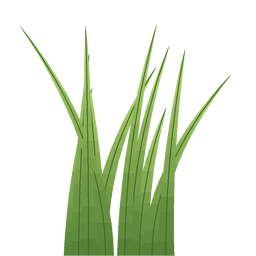
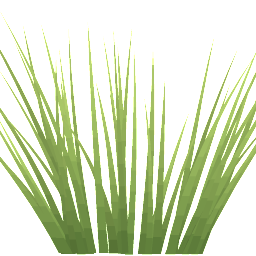
Art direction step 3: dense painted grass, ground tinted to the meadow, more samples per tier; build 97
Claude-Session: https://claude.ai/code/session_01Lp4BdAEwUFHKjaufRuJ5M3

diff --git a/tools/make_grass_textures.py b/tools/make_grass_textures.py
@@ -1,0 +1,142 @@
+#!/usr/bin/env python3
+"""Generates the painted grass card textures (ART_DIRECTION.md step 3).
+
+Usage: python3 tools/make_grass_textures.py [--out assets/grass]
+
+ground_cover : blades splayed flat, seen from above (lies on the ground)
+grass_short  : an upright tuft of fine blades, about 0.4 m
+grass_tall   : taller blades with a few seed heads, about 0.75 m
+The card is multiplied by a per-card green from the game, so the textures stay close to neutral:
+dark at the root, lighter at the tip, each blade a little different. Drawn 4x larger and
+averaged down for clean edges. Deterministic.
+"""
+import argparse
+import math
+import os
+
+import numpy as np
+from PIL import Image, ImageDraw
+
+SS = 4
+
+
+def blade(draw, w, h, x0, y0, length, lean, width, color, curve):
+    """One tapered, curved blade from (x0, y0) upward; lean and curve in pixels."""
+    n = 14
+    left, right = [], []
+    for i in range(n + 1):
+        t = i / n
+        x = x0 + lean * t + curve * t * t
+        y = y0 - length * t
+        half = width * 0.5 * (1.0 - t) ** 0.8 + 0.4
+        left.append((x - half, y))
+        right.append((x + half, y))
+    draw.polygon(left + right[::-1], fill=color)
+
+
+def shaded_blade(img, w, h, x0, y0, length, lean, width, curve, base, tip, rng):
+    """Draws a blade as short colour bands so the root is darker than the tip."""
+    n = 10
+    draw = ImageDraw.Draw(img)
+    pts = []
+    for i in range(n + 1):
+        t = i / n
+        pts.append((x0 + lean * t + curve * t * t, y0 - length * t, t))
+    for i in range(n):
+        (xa, ya, ta), (xb, yb, tb) = pts[i], pts[i + 1]
+        ha = width * 0.5 * (1.0 - ta) ** 0.8 + 0.4
+        hb = width * 0.5 * (1.0 - tb) ** 0.8 + 0.4
+        tm = (ta + tb) * 0.5
+        col = tuple(int(base[c] + (tip[c] - base[c]) * (tm ** 0.8)) for c in range(3)) + (255,)
+        draw.polygon([(xa - ha, ya), (xa + ha, ya), (xb + hb, yb), (xb - hb, yb)], fill=col)
+
+
+def finish(img, size, path):
+    # Average down with premultiplied colour, so the clear pixels do not darken the edges.
+    a = np.asarray(img).astype(np.float32) / 255.0
+    pre = Image.fromarray((np.dstack([a[..., :3] * a[..., 3:4], a[..., 3:4]]) * 255.0 + 0.5).astype(np.uint8), "RGBA")
+    pre = np.asarray(pre.resize((size[0], size[1]), Image.BOX)).astype(np.float32) / 255.0
+    alpha = pre[..., 3:4]
+    rgb = np.where(alpha > 0.002, pre[..., :3] / np.maximum(alpha, 0.002), 0.0)
+    out = np.dstack([np.clip(rgb, 0, 1), alpha])
+    img = Image.fromarray((out * 255.0 + 0.5).astype(np.uint8), "RGBA")
+    img.save(path, optimize=True)
+    print(path, img.size)
+
+
+def tuft(size, count, min_len, max_len, rng, seeds=0, spread=0.55):
+    w, h = size[0] * SS, size[1] * SS
+    img = Image.new("RGBA", (w, h), (0, 0, 0, 0))
+    for _ in range(count):
+        x0 = w * (0.5 + (rng.random() - 0.5) * spread)
+        y0 = h * (0.985 + rng.random() * 0.01)
+        length = h * (min_len + (max_len - min_len) * rng.random())
+        lean = (x0 - w * 0.5) * (0.6 + rng.random() * 0.9) + (rng.random() - 0.5) * w * 0.12
+        width = w * (0.022 + 0.02 * rng.random())
+        curve = (rng.random() - 0.5) * w * 0.28 + math.copysign(w * 0.06, lean)
+        v = 0.8 + 0.2 * rng.random()
+        base = (int(95 * v), int(130 * v), int(60 * v))
+        tip = (int(205 * v), int(235 * v), int(125 * v))
+        shaded_blade(img, w, h, x0, y0, length, lean, width, curve, base, tip, rng)
+    draw = ImageDraw.Draw(img)
+    for _ in range(seeds):
+        x0 = w * (0.5 + (rng.random() - 0.5) * spread * 0.8)
+        y0 = h * 0.985
+        length = h * (0.78 + 0.2 * rng.random())
+        lean = (x0 - w * 0.5) * 0.5
+        width = w * 0.012
+        curve = (rng.random() - 0.5) * w * 0.1
+        shaded_blade(img, w, h, x0, y0, length, lean, width, curve, (130, 140, 70), (190, 175, 95), rng)
+        # the seed head: a small plume of short strokes at the top
+        tx = x0 + lean + curve
+        ty = y0 - length
+        for k in range(14):
+            a = (k / 13.0 - 0.5) * 0.9
+            ln = h * (0.045 + 0.02 * rng.random())
+            draw.line([(tx, ty + ln * 0.2), (tx + math.sin(a) * ln, ty - math.cos(a) * ln)], fill=(215, 190, 105, 255), width=int(SS * 1.3))
+    return img
+
+
+def cover(size, count, rng):
+    """Blades fanning out from many roots over the whole card, as seen from above."""
+    w, h = size[0] * SS, size[1] * SS
+    img = Image.new("RGBA", (w, h), (0, 0, 0, 0))
+    draw = ImageDraw.Draw(img)
+    for _ in range(count):
+        cx, cy = rng.random() * w, rng.random() * h
+        for _ in range(rng.integers(4, 8)):
+            a = rng.random() * math.tau
+            ln = w * (0.06 + 0.07 * rng.random())
+            curve = (rng.random() - 0.5) * ln * 0.7
+            v = 0.78 + 0.22 * rng.random()
+            base = (int(110 * v), int(145 * v), int(70 * v))
+            tip = (int(200 * v), int(232 * v), int(120 * v))
+            n = 8
+            pts = []
+            for i in range(n + 1):
+                t = i / n
+                dx = math.cos(a) * ln * t - math.sin(a) * curve * t * t
+                dy = math.sin(a) * ln * t + math.cos(a) * curve * t * t
+                pts.append((cx + dx, cy + dy, t))
+            for i in range(n):
+                (xa, ya, ta), (xb, yb, tb) = pts[i], pts[i + 1]
+                wa = w * 0.006 * (1.0 - ta) + 0.5
+                wb = w * 0.006 * (1.0 - tb) + 0.5
+                col = tuple(int(base[c] + (tip[c] - base[c]) * ((ta + tb) * 0.5)) for c in range(3)) + (255,)
+                draw.line([(xa, ya), (xb, yb)], fill=col, width=max(1, int((wa + wb) * 0.6)))
+    return img
+
+
+def main():
+    parser = argparse.ArgumentParser()
+    parser.add_argument("--out", default="assets/grass")
+    args = parser.parse_args()
+    os.makedirs(args.out, exist_ok=True)
+    rng = np.random.default_rng(77)
+    finish(cover((256, 256), 85, rng), (256, 256), os.path.join(args.out, "ground_cover.png"))
+    finish(tuft((256, 256), 46, 0.45, 0.98, rng), (256, 256), os.path.join(args.out, "grass_short.png"))
+    finish(tuft((128, 256), 30, 0.5, 1.0, rng, seeds=5, spread=0.7), (128, 256), os.path.join(args.out, "grass_tall.png"))
+
+
+if __name__ == "__main__":
+    main()

diff --git a/ART_DIRECTION.md b/ART_DIRECTION.md
@@ -111,3 +111,9 @@ Weather is set by the north-south zone, every zone has seasons, dry zones stay d
 ## 11. Forest floor objects (owner decision, 2026-10-20)
 
 **[Decided]** First: fallen branches and leaf litter on the forest floor. Later: reeds, driftwood, pebbles and the rest of the Stage 7 list. Built in Art queue item 5 (rock and small details); the litter texture layer from step 2 already covers the base look.
+
+## 12. Dense grass (step 3, build 97)
+
+New painted card textures from `tools/make_grass_textures.py` (fine tapered blades, dark root to light tip, tall grass with seed heads, ground cover as blades splayed flat). More cards: 4 cover, 4 short, 2 tall per ground sample, and more ground samples per tier (3, 4, 5, 6 per 6 m side, was 2, 3, 4, 5). Blades have back-light so the sun glows through them. The ground shader tints grassy ground (`lw[0] * cover`) to the same meadow green so no dark soil shows between tufts and far ground matches near.
+**Cost per tier** (cards, estimated from the cloud test clearing and radius; real frame time still needs a playtest): Low about 1.3 k cards at 14 m (was about 0.6 k), Medium about 6 k at 24 m, High about 20 k at 34 m (22 k in the test clearing), Ultra about 55 k at 48 m. Low stays at 14 m. Alpha-to-coverage was not used: it needs MSAA, which Low cannot afford; Medium and up smooth the card edges with TAA.
+Renders: `art/grass_before.png`, `art/grass_after.png`.
